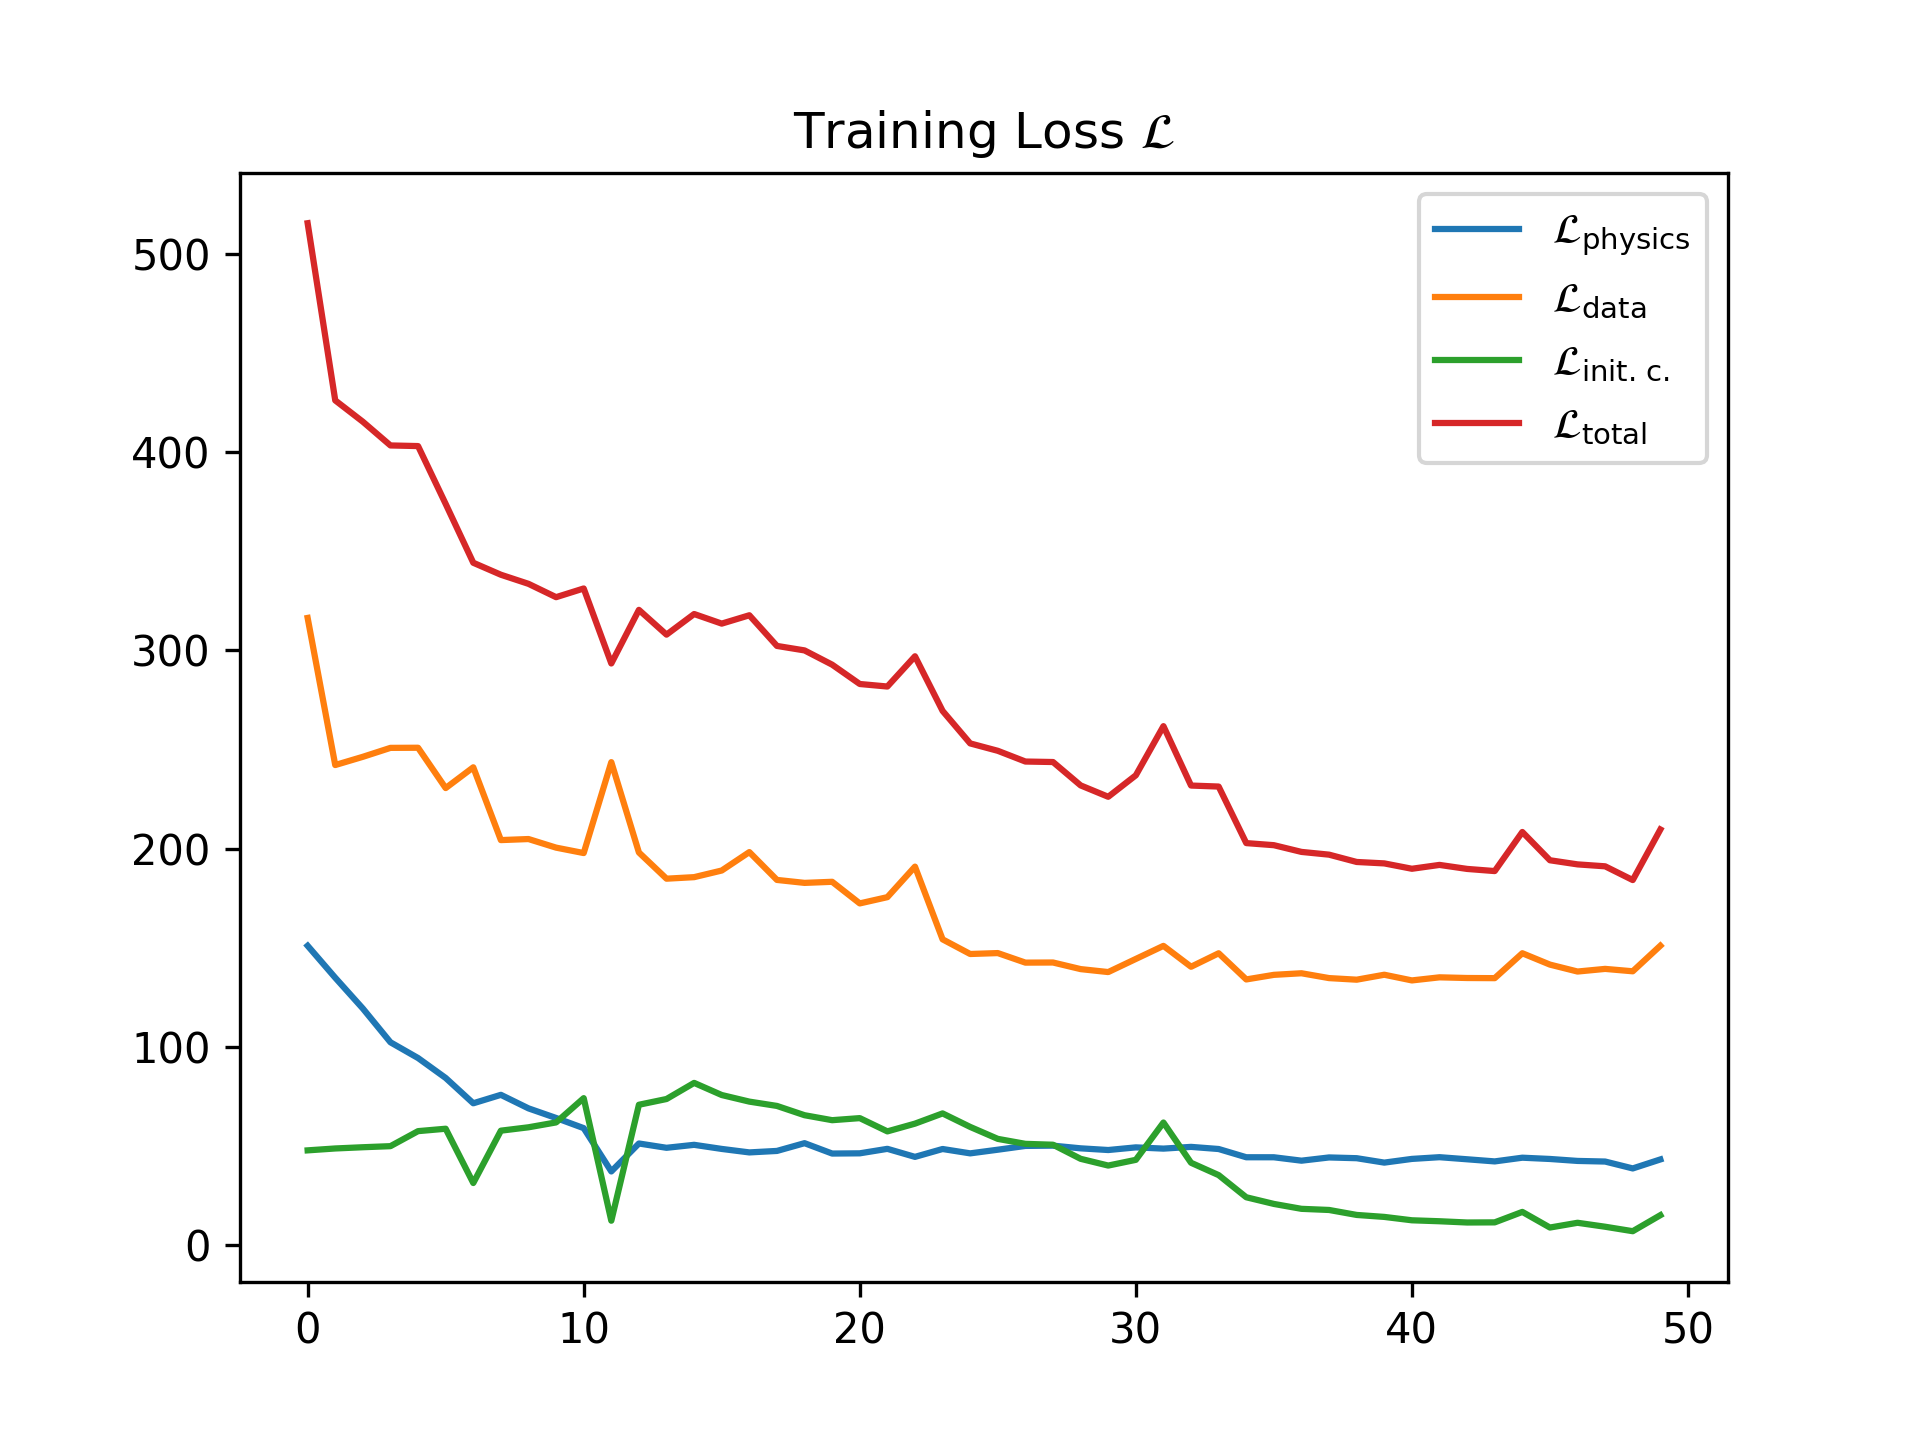
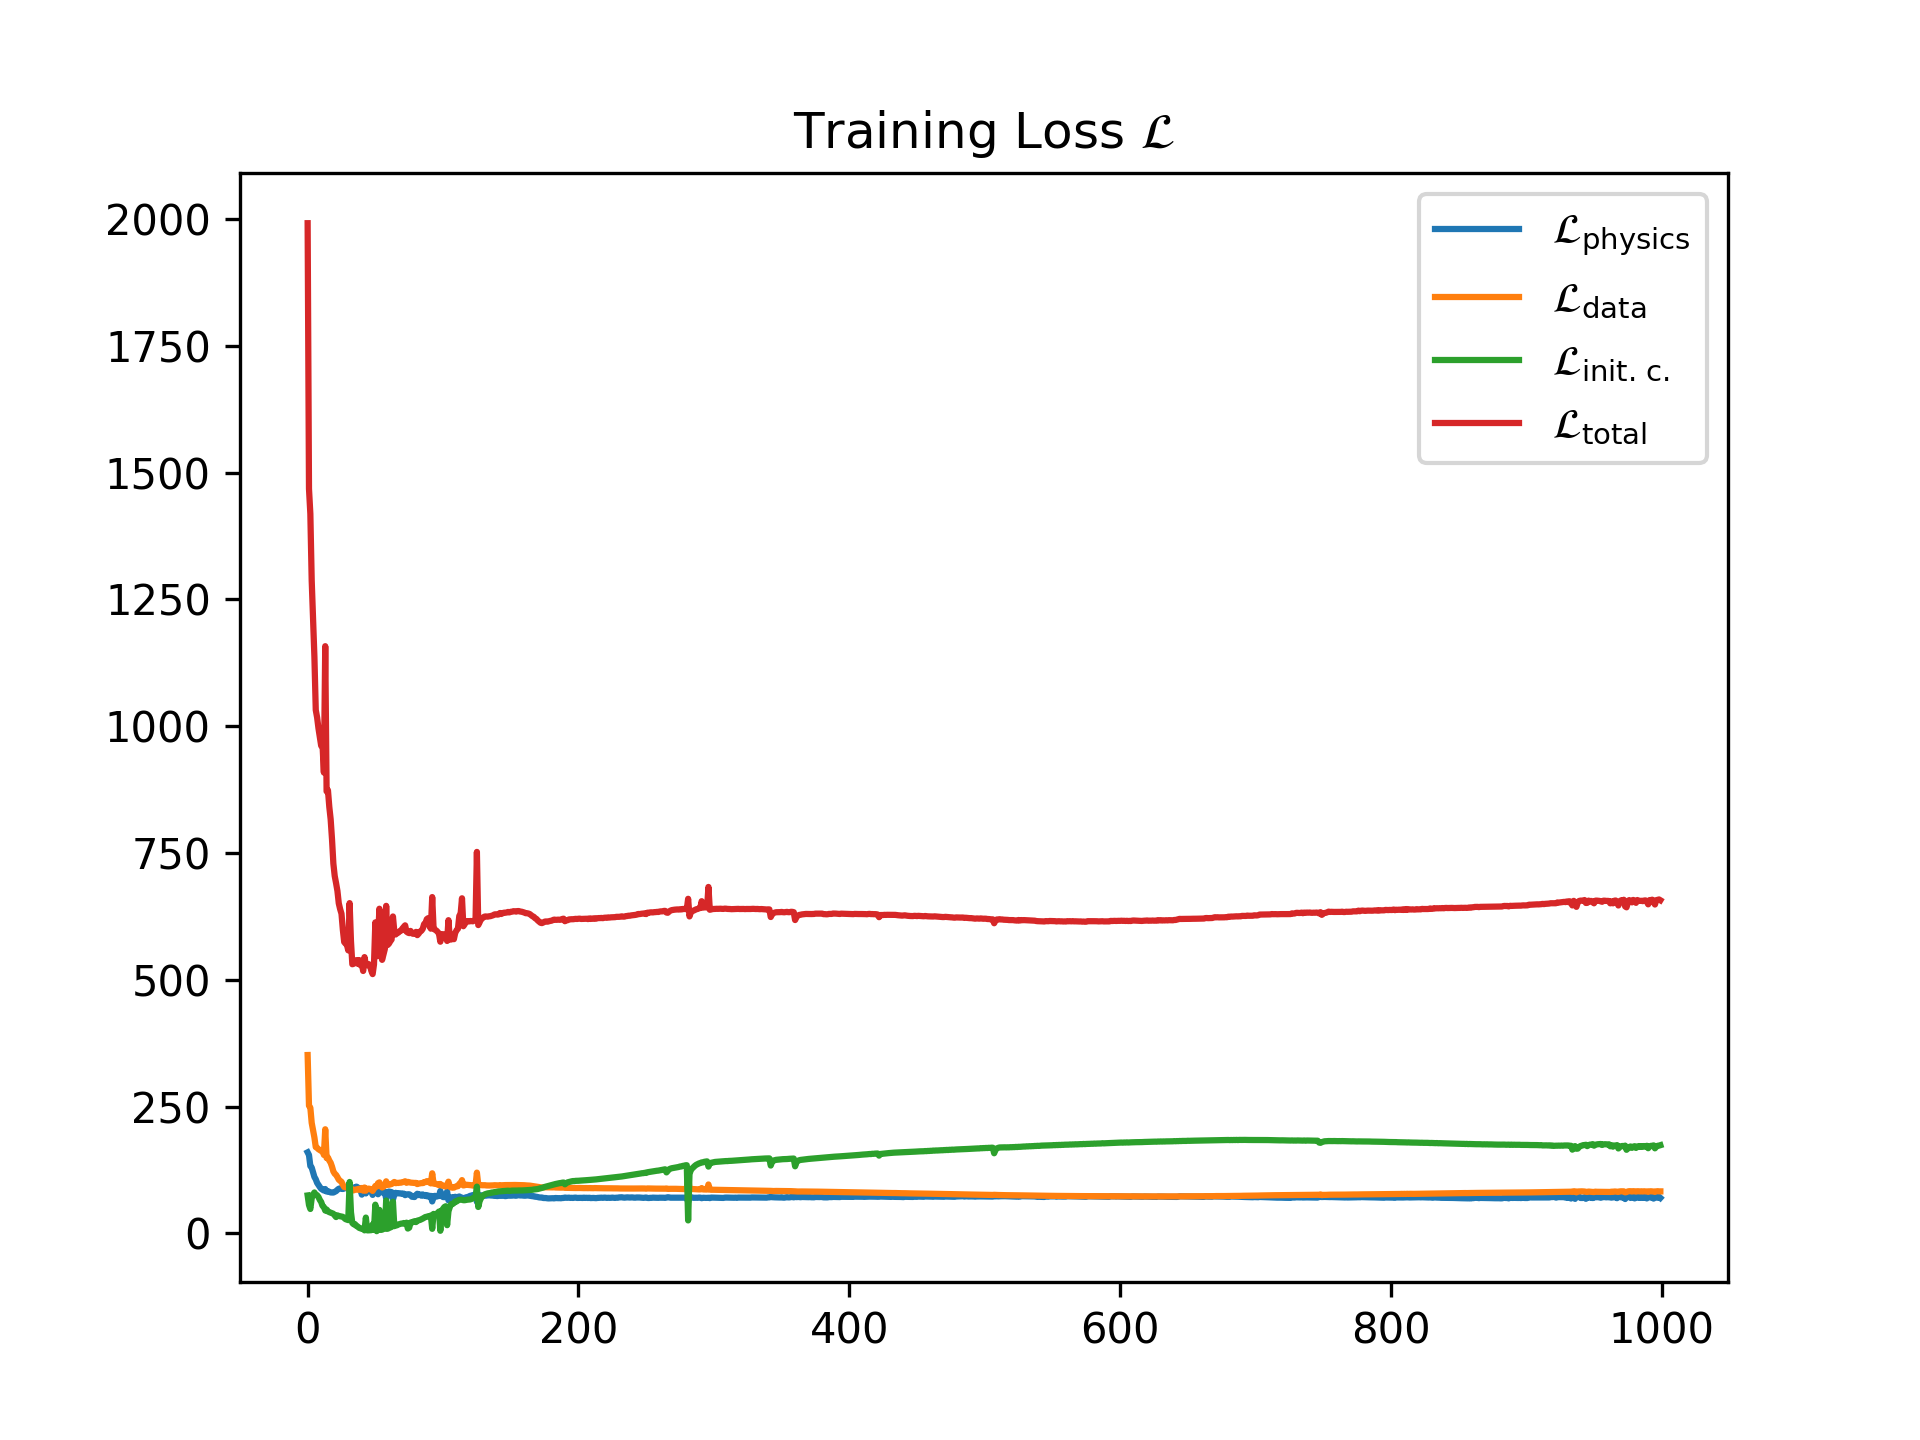
Updated results

diff --git a/pinn/pinn_train.py b/pinn/pinn_train.py
@@ -24,9 +24,9 @@ learning_rate = 0.01
 optimizer = torch.optim.Adam(model.parameters(), lr=learning_rate)
 
 # Training hyperparameters
-epochs = 50
+epochs = 250
 # Physics loss weight
-lambda_data = 1
+lambda_data = 5
 lambda_phys = 1
 lambda_init = 1
 
